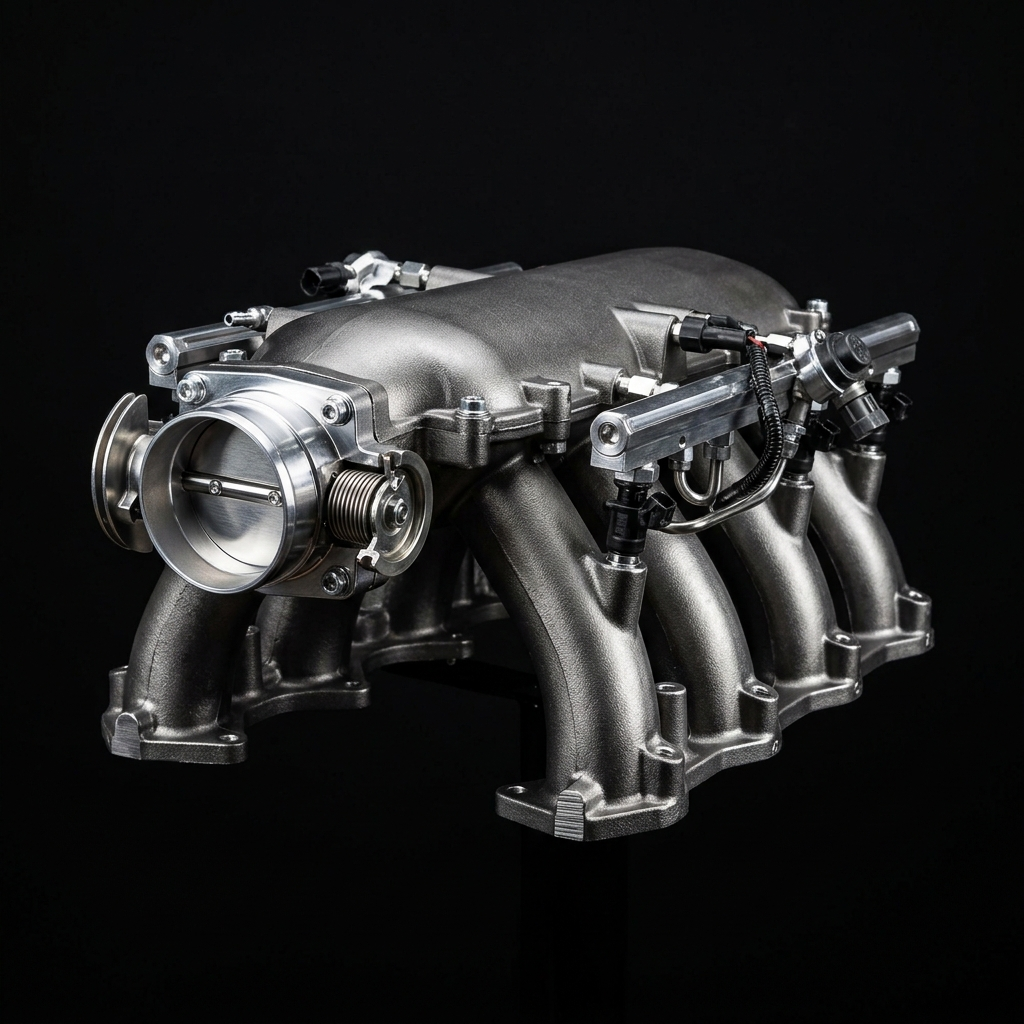
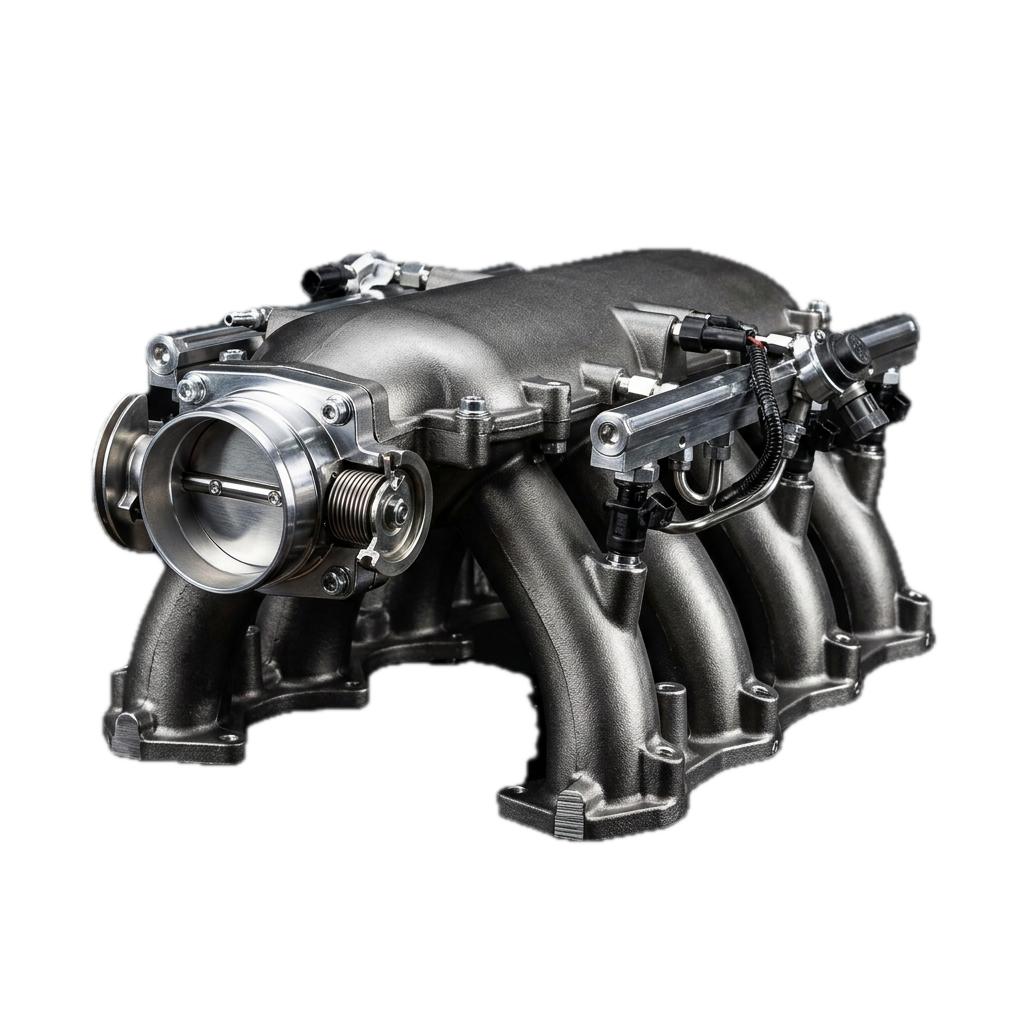
phone numbers

diff --git a/src/components/Footer.js b/src/components/Footer.js
@@ -25,7 +25,7 @@ export default function Footer() {
             <div className="text-gray-500 text-sm space-y-1">
               <p>www.mostsolution.com</p>
               <p>[email redacted]</p>
-              <p>[phone redacted]</p>
+              <p>[phone redacted]</p>
             </div>
           </div>
 
@@ -62,9 +62,9 @@ export default function Footer() {
           <div className="flex flex-col sm:flex-row justify-between items-center gap-4">
             <div className="text-gray-600 text-xs">
               <p>
-                İs. H.Mustafa EDFM Taksercioer Metus, D. Cadde No: 40/A
+                75. Yıl Mahallesi / Emko Sanayi Sitesi / Edirne Sokak /No:28
               </p>
-              <p>Gaziosmanpaşa / Sultangazir</p>
+              <p>Odunpazarı / Eskişehir</p>
             </div>
             <div className="flex gap-6 text-gray-600 text-xs">
               <a

diff --git a/src/components/Contact.js b/src/components/Contact.js
@@ -69,7 +69,7 @@ export default function Contact() {
               İletişim Bilgileri
             </h3>
             <div className="flex flex-col sm:flex-row gap-4 sm:gap-8 text-gray-400 text-sm mb-10">
-              <span>[phone redacted]</span>
+              <span>[phone redacted]</span>
               <span>[email redacted]</span>
             </div>
 